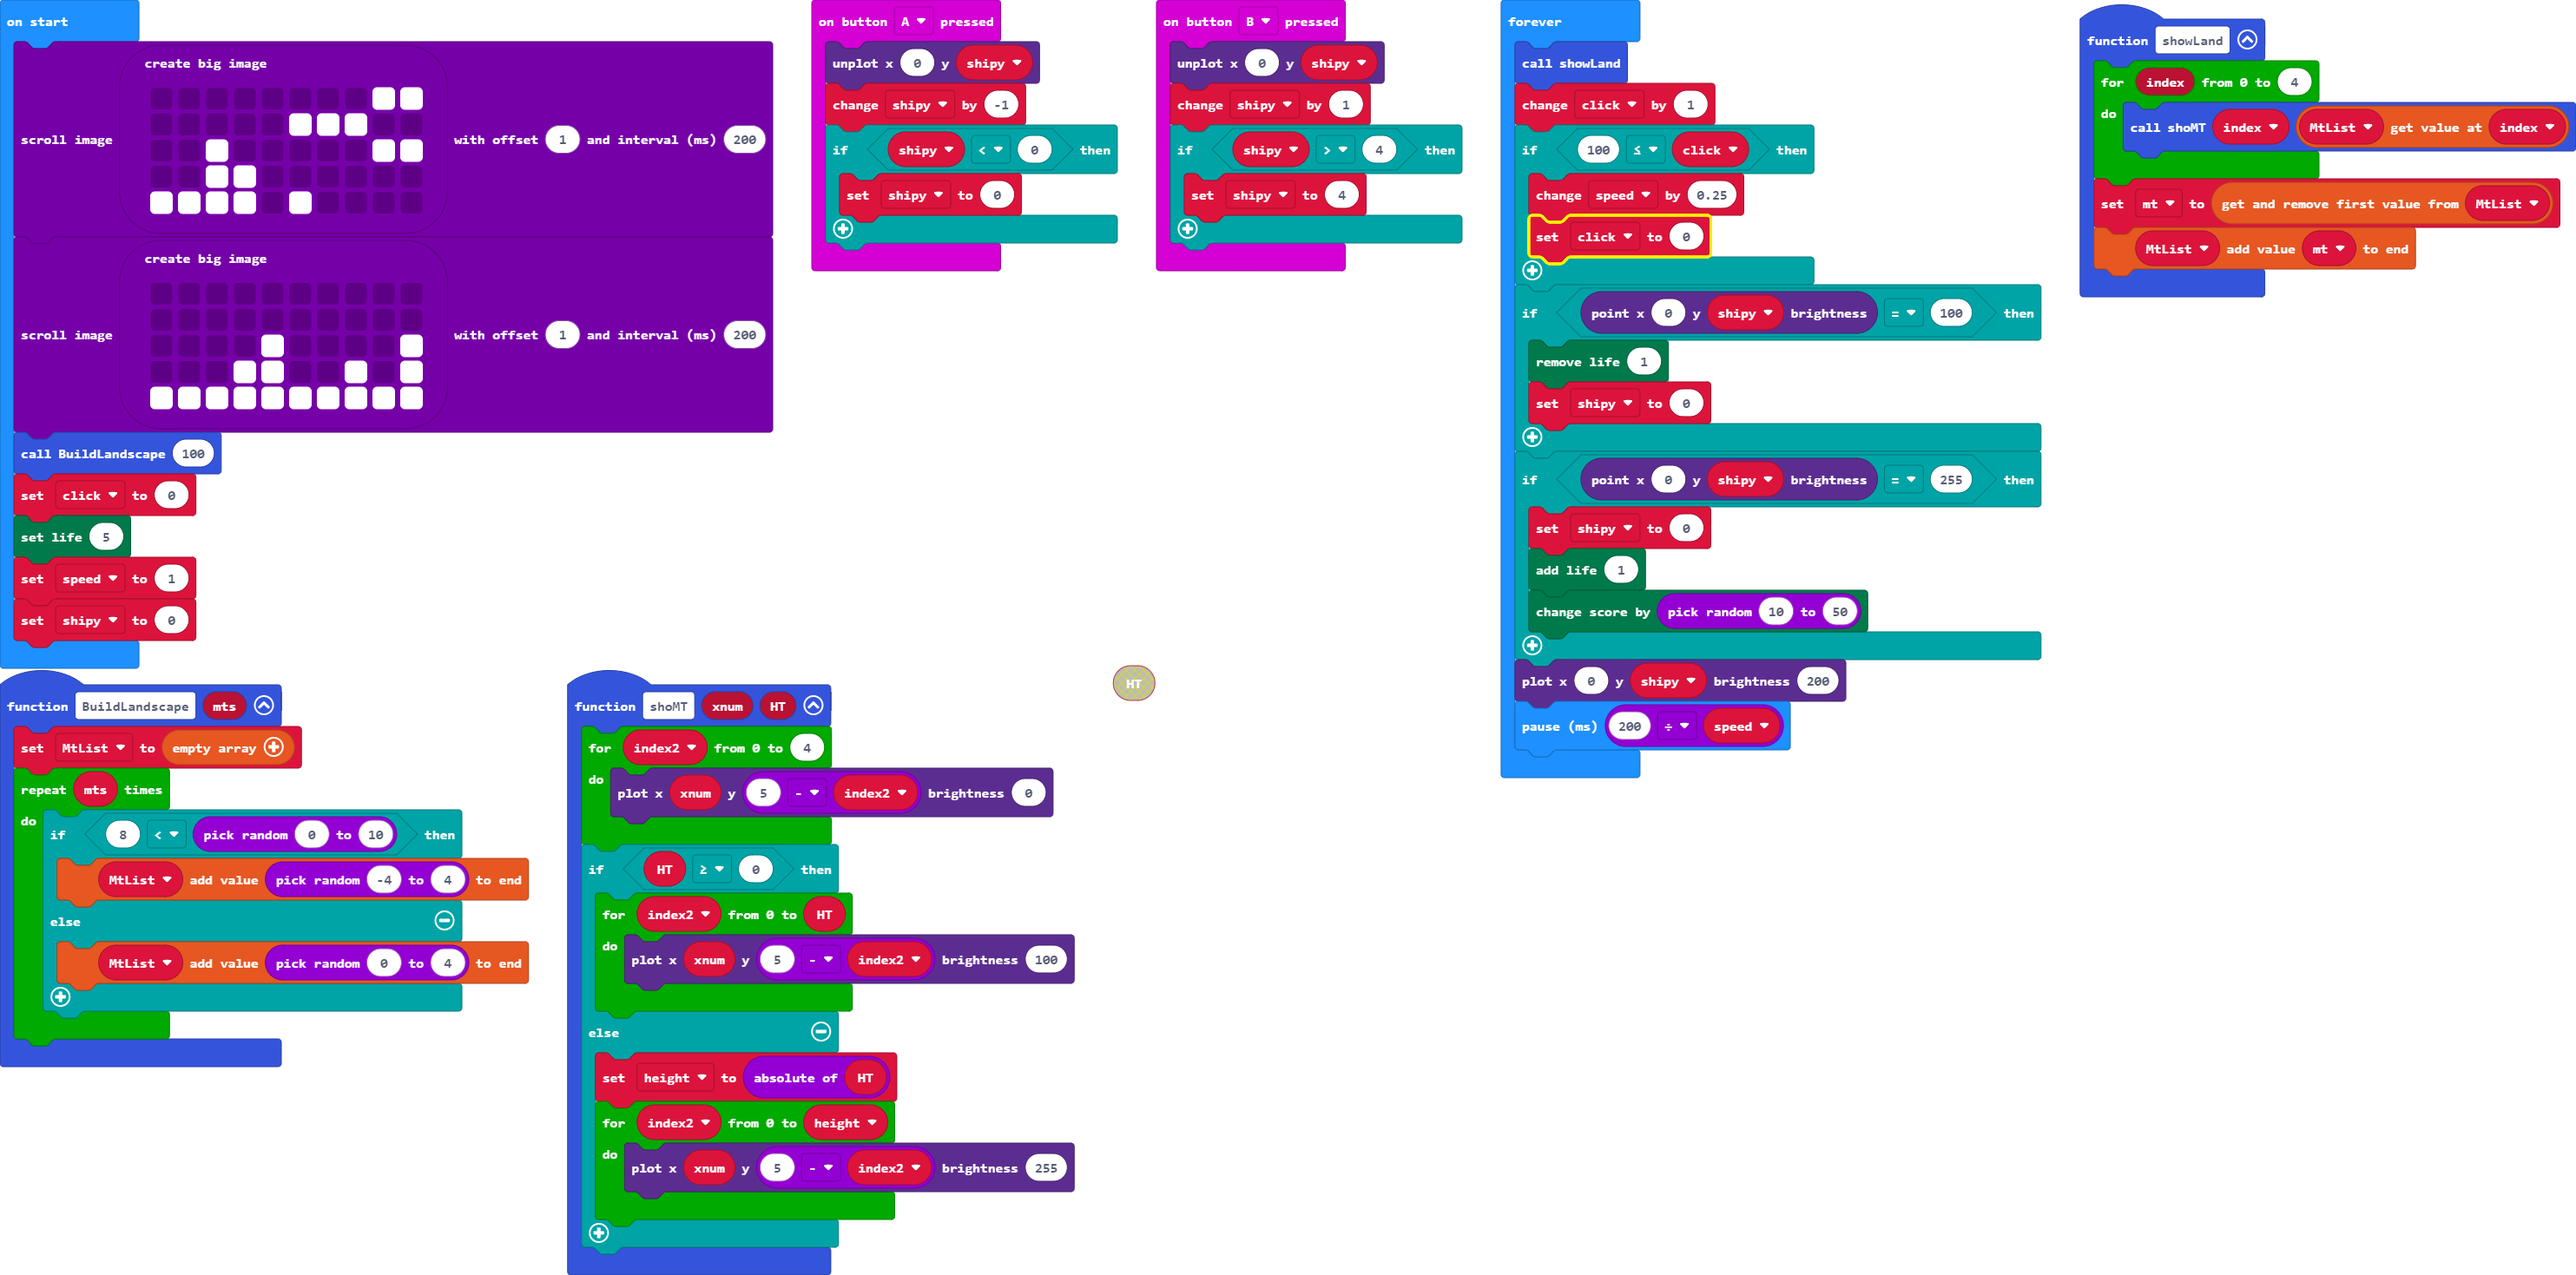
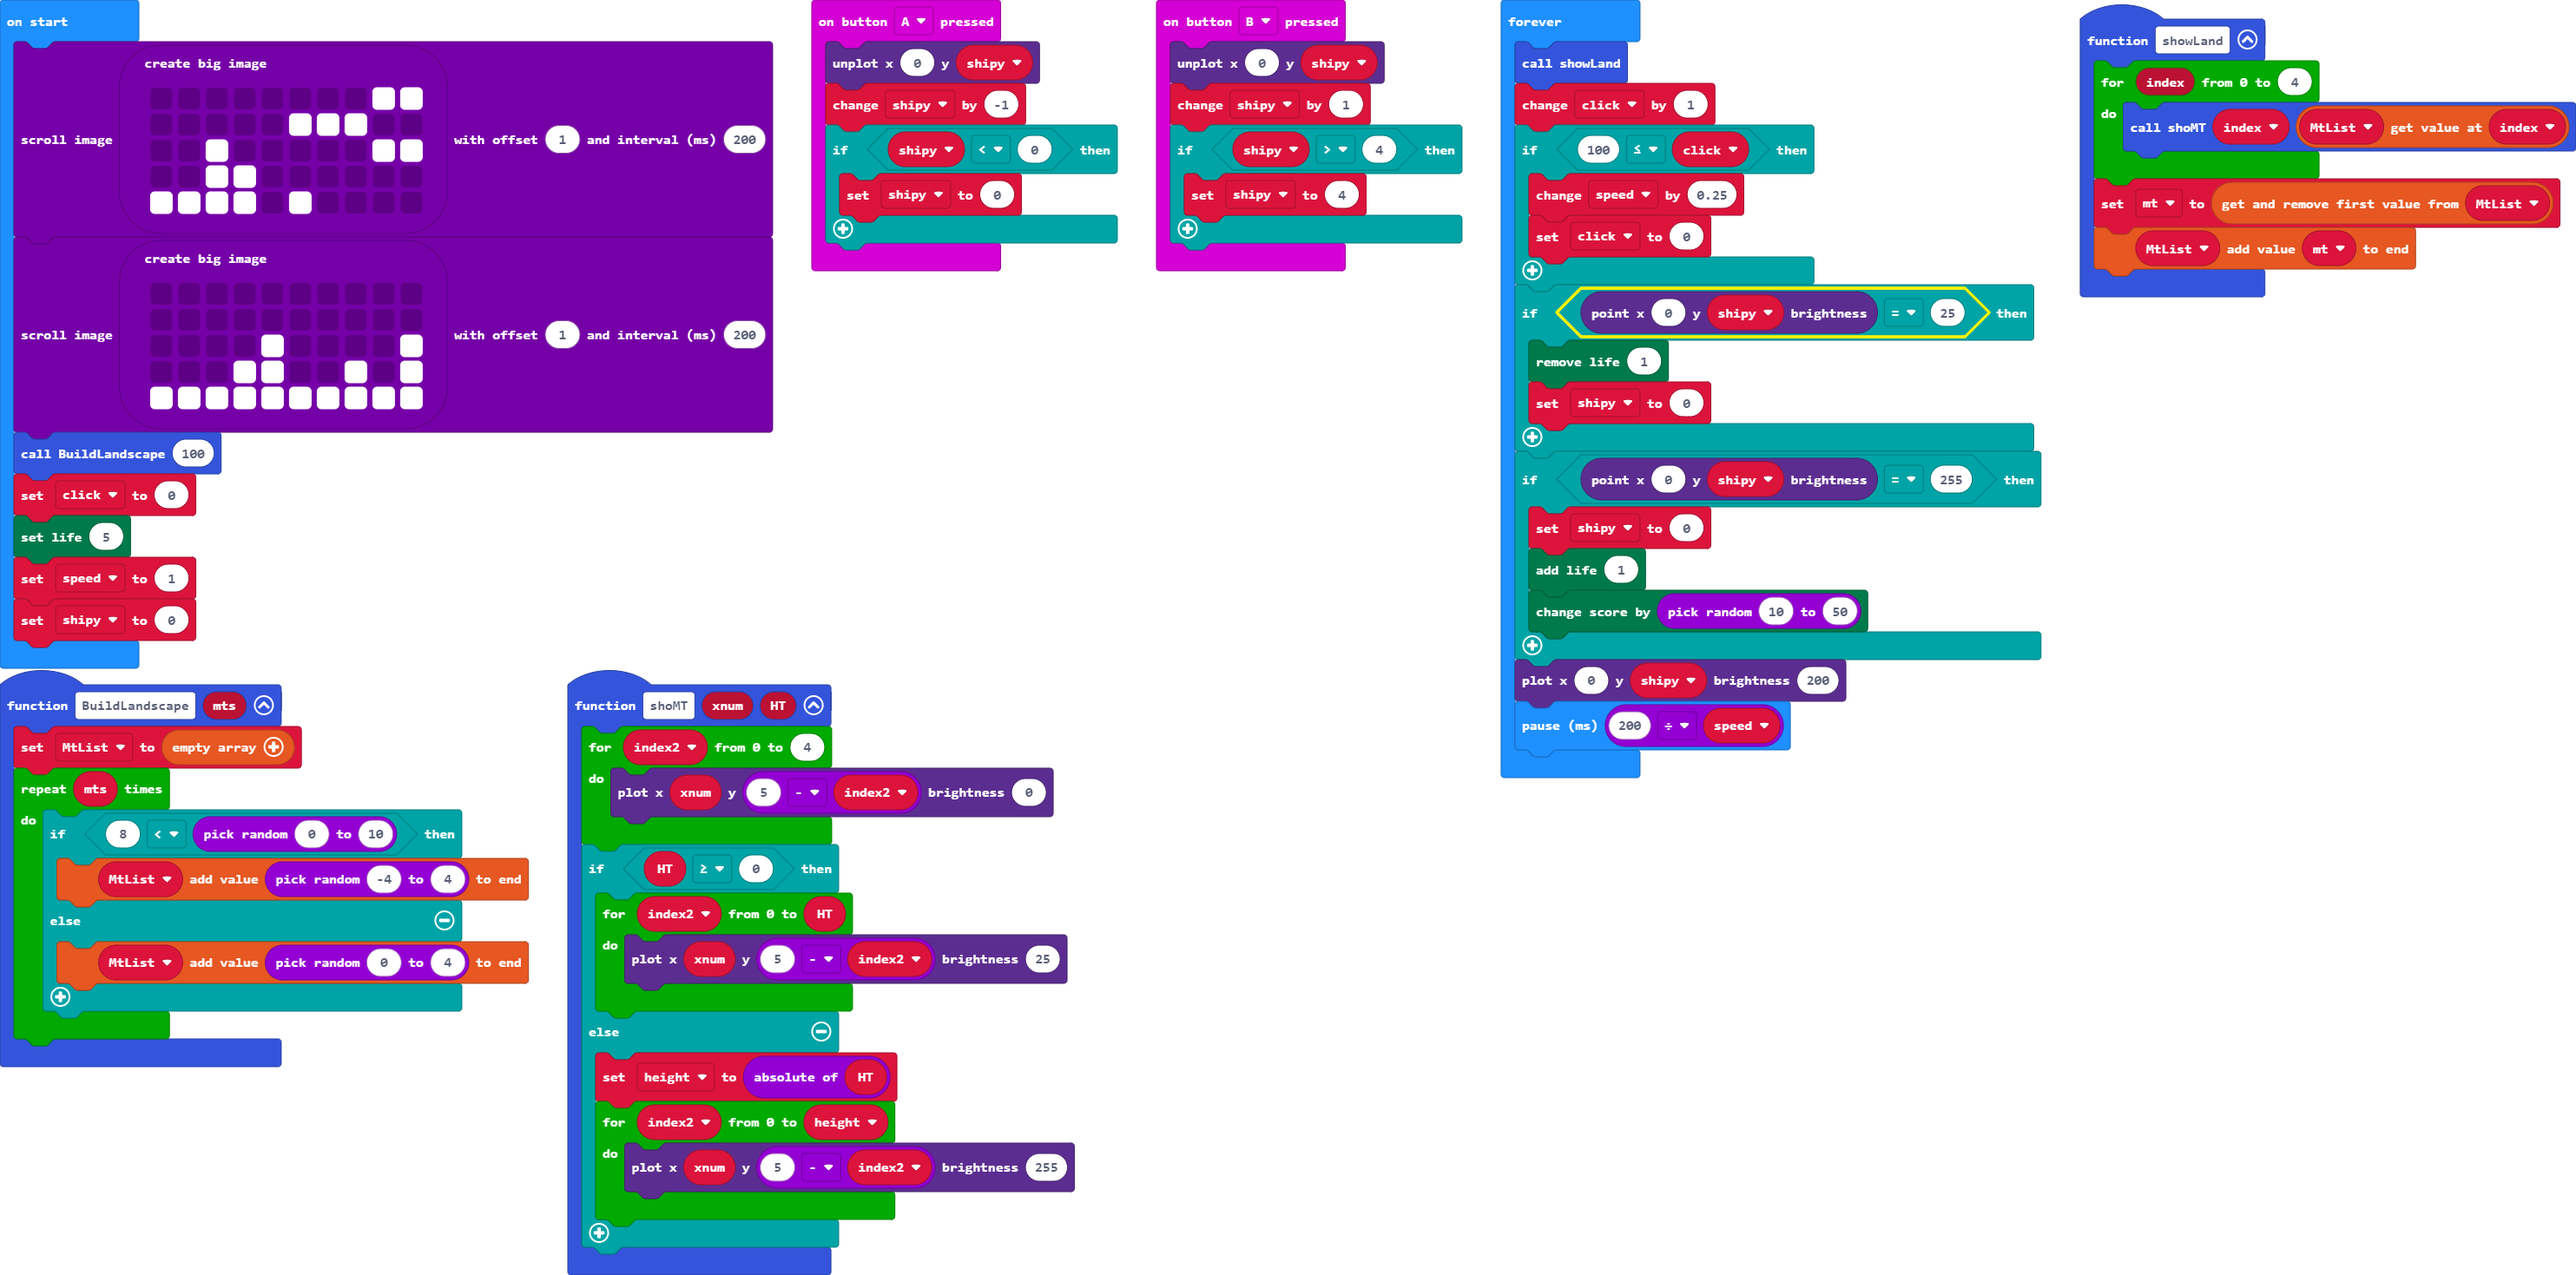
Update main.blocks, main.ts

diff --git a/main.ts b/main.ts
@@ -4,7 +4,7 @@ function shoMT (xnum: number, HT: number) {
     }
     if (HT >= 0) {
         for (let index2 = 0; index2 <= HT; index2++) {
-            led.plotBrightness(xnum, 5 - index2, 50)
+            led.plotBrightness(xnum, 5 - index2, 25)
         }
     } else {
         height = Math.abs(HT)
@@ -74,7 +74,7 @@ basic.forever(function () {
         speed += 0.25
         click = 0
     }
-    if (led.pointBrightness(0, shipy) == 50) {
+    if (led.pointBrightness(0, shipy) == 25) {
         game.removeLife(1)
         shipy = 0
     }
